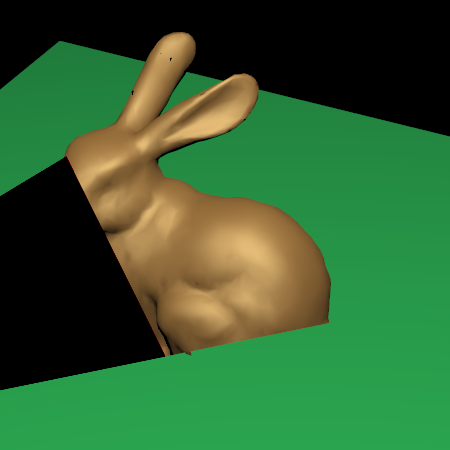
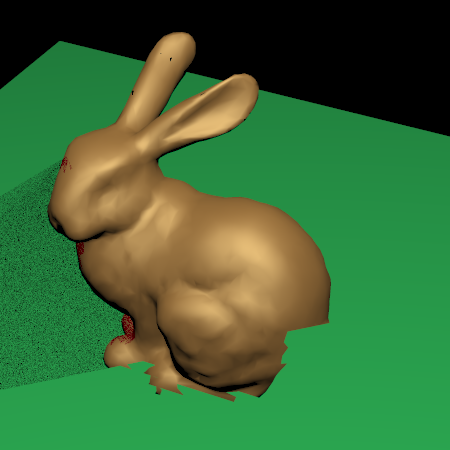
fixed right tree bug

Changed region(s): [[0.0, 0.3422, 0.6533, 0.9022]]

diff --git a/src/ray2/accel/Bvh.java b/src/ray2/accel/Bvh.java
@@ -64,13 +64,14 @@ public class Bvh implements AccelStruct {
 				// intersect with surfaces
 				for (int i = node.surfaceIndexStart; i < node.surfaceIndexEnd; i++){
 					if (surfaces[i].intersect(outRecord, rayIn)) {
-						if (anyIntersection) {return true;}
 						rayIn.makeOffsetSegment(outRecord.t);
+						if (anyIntersection && outRecord.t > 0) {return true;}
 					}
 				}
 			} else {
-				return intersectHelper(node.child[0], outRecord, rayIn, anyIntersection) ||
-				intersectHelper(node.child[1], outRecord, rayIn, anyIntersection);
+				boolean ri = intersectHelper(node.child[0], outRecord, rayIn, anyIntersection);
+				boolean li = intersectHelper(node.child[1], outRecord, rayIn, anyIntersection);
+				return ri || li;
 			}
 			return outRecord.t > 0;
 		}
@@ -138,8 +139,8 @@ public class Bvh implements AccelStruct {
 
 		// ==== Step 5 ====
 		// Recursively create left and right children.
-		BvhNode l = createTree(start, (start + end) / 2);
 		BvhNode r = createTree((start + end) / 2, end);
+		BvhNode l = createTree(start, (start + end) / 2);
 		BvhNode root = new BvhNode(minBound, maxBound, l, r, start, end);
 //		System.out.println("internal: " + minBound.toString() + " " + maxBound.toString());
 

diff --git a/src/ray2/accel/BvhNode.java b/src/ray2/accel/BvhNode.java
@@ -94,7 +94,7 @@ public class BvhNode {
 		double tExitYtmp = (this.maxBound.y - ray.origin.y) / ray.direction.y;
 		double tEnterY = Math.min(tEnterYtmp, tExitYtmp);
 		double tExitY = Math.max(tEnterYtmp, tExitYtmp);
-			
+		
 		double tEnterZtmp = (this.minBound.z - ray.origin.z) / ray.direction.z;
 		double tExitZtmp = (this.maxBound.z - ray.origin.z) / ray.direction.z;
 		double tEnterZ = Math.min(tEnterZtmp, tExitZtmp);

diff --git a/src/egl/math/Util.java b/src/egl/math/Util.java
@@ -103,7 +103,7 @@ public class Util {
 		ret.z = Math.max(v1.z, v2.z);
 		return ret;
 	}
-	
+		
 	// TODOX: Move To GLProgram, Op on current
 //	public static boolean setUniform(GL2 gl, GLProgram program, String name, float f) {
 //		int loc = program.getUniformLocation(name);

diff --git a/src/ray2/Ray.java b/src/ray2/Ray.java
@@ -102,7 +102,7 @@ public class Ray {
   public void makeOffsetSegment(double newEnd) {
 
     start = EPSILON;
-    end = newEnd;
+    end = newEnd < end ? newEnd : end;
 
   }
   
